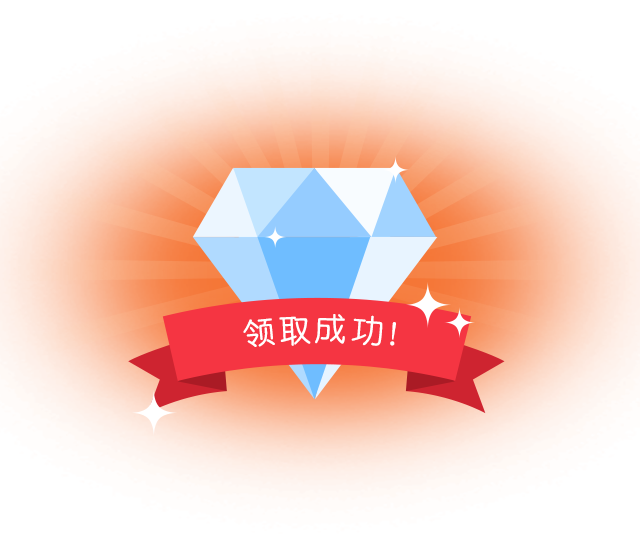
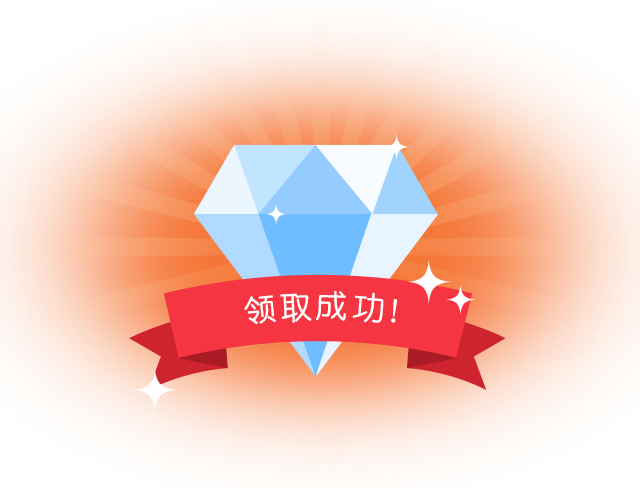
换图，会员卡图标缩小

diff --git a/src/m-member/static/css/member.css b/src/m-member/static/css/member.css
@@ -35,8 +35,8 @@
 #card_list > li.card {
   position: relative;
   display: inline-block;
-  width: 60%;
-  padding-bottom: 40%;
+  width: 54%;
+  padding-bottom: 36%;
   height: 0;
   background-size: cover !important;
   vertical-align: top;
@@ -45,7 +45,7 @@
   text-shadow: 1px 1px 0px rgba(0, 0, 0, 0.25);
 }
 #card_list > li.card:first-child {
-  margin-left: 20%;
+  margin-left: 23%;
 }
 #card_list > li.cardtype_recharge {
   background: url("/resource/cardtype_recharge.png") no-repeat;

diff --git a/src/m-member/static/css/member.less b/src/m-member/static/css/member.less
@@ -43,8 +43,8 @@
 #card_list > li.card {
   position: relative;
   display: inline-block;
-  width: 60%;
-  padding-bottom: 40%;
+  width: 54%;
+  padding-bottom: 36%;
   height: 0;
   background-size: cover !important;
   vertical-align: top;
@@ -54,7 +54,7 @@
 }
 
 #card_list > li.card:first-child {
-  margin-left: 20%;
+  margin-left: 23%;
 }
 
 #card_list > li.cardtype_recharge {
